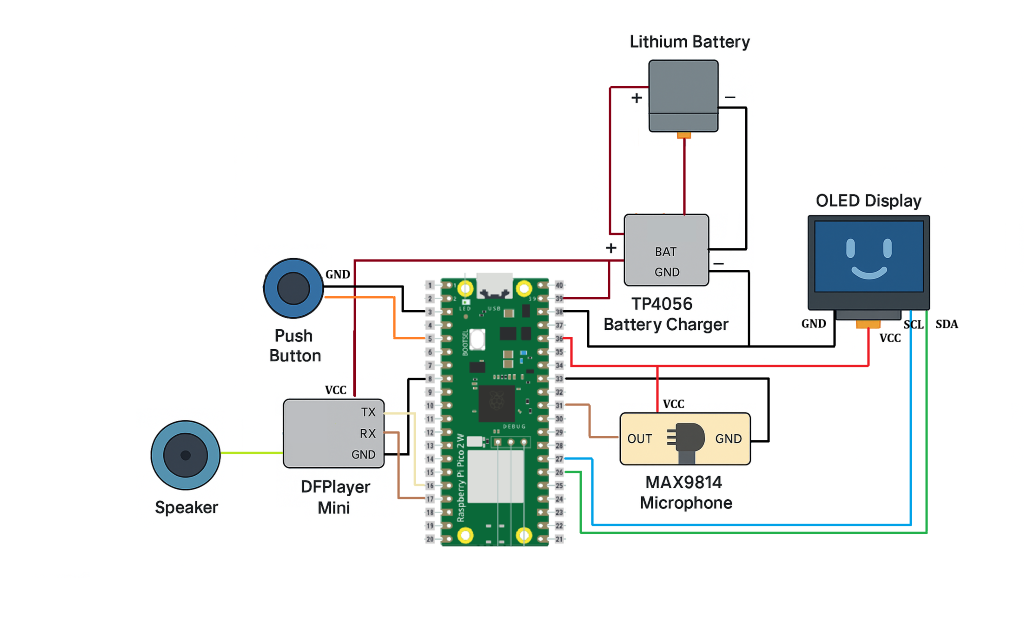
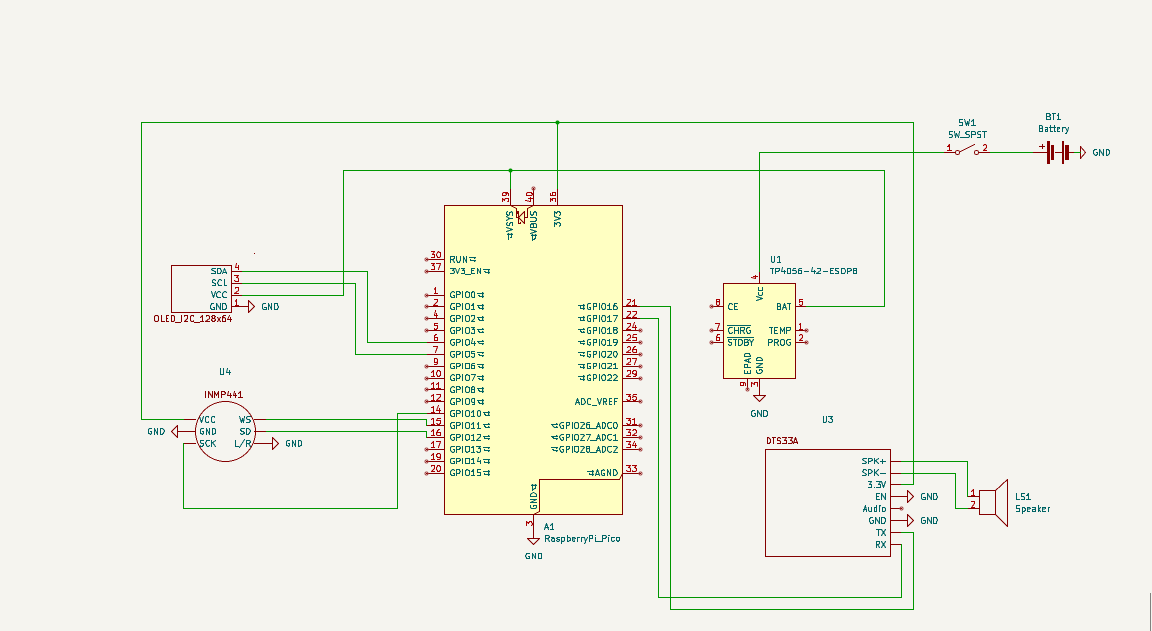
Changed schematic + added description for tts module

Changed region(s): [[0.125, 0.0612, 0.9688, 0.9791]]

diff --git a/website/versioned_docs/version-acs_cc/project/2025/andrei.braniste/index.md b/website/versioned_docs/version-acs_cc/project/2025/andrei.braniste/index.md
@@ -21,7 +21,7 @@ I chose this project because I wanted to build a device that provides emotional 
 - User Interaction: Captures audio input (voice / clap / whistle) via microphone.
 - Processing Core: Raspberry Pi Pico W handles sound detection, AI message requests, and control flow.
 - Cloud Interaction: Sends API requests (e.g., OpenAI) via WiFi when needed.
-- Audio Output: Plays back pre-recorded motivational audio clips via DFPlayer Mini or a TTS UART module.
+- Audio Output: Plays back AI-generated responses through a UART-based TTS module.
 - Visual Output: Displays emotional faces (happy, sad, excited) on the OLED screen based on interaction.
 - Power Supply: A rechargeable Li-ion battery powers the device through a TP4056 charging and protection module, allowing full portability.
 
@@ -54,10 +54,10 @@ This week I received all the components including the TTS module and I've succes
 - Purpose: Captures voice input
 - Function: Currently, the MAX9814 provides analog audio signals read via ADC. In the future, the INMP441 I2S digital microphone may be used if I2S functionality is implemented manually using PIO on the Pico.
 
-### DFPlayer Mini MP3 Module (planned upgrade to TTS module)
+### DTS33A TTS Module
 
 - Purpose: Voice response output
-- Function: Plays motivational audio responses stored on a microSD card. It is currently used for pre-recorded responses, but it may later be replaced by a UART-based TTS module to allow dynamic speech generation from AI output.
+- Function: Converts text to natural-sounding speech in real-time. Connected via UART to the Pico W, it enables dynamic voice responses from AI-generated text without requiring pre-recorded audio files. Supports multiple languages and adjustable speech parameters.
 
 ### 3W Speaker
 
@@ -99,13 +99,12 @@ The format is
 |--------|--------|-------|
 | [Raspberry Pi Pico W (RP2350)](https://www.optimusdigital.ro/ro/placi-raspberry-pi/13327-raspberry-pi-pico-2-w.html?gad_source=1&gad_campaignid=19615979487&gbraid=0AAAAADv-p3AcTGZShwGGGHyKb6hmiamUi&gclid=Cj0KCQjwt8zABhDKARIsAHXuD7bRaFkoivDwDjO8mJROErsIad_UwRPk2iXsDzBulHCu4bi6QBcqg-0aAu0XEALw_wcB) | Main controller with WiFi | ~40 RON |
 | [MAX9814 Microphone Module](https://ardushop.ro/ro/module/601-modul-microfon-senzor-sunet-6427854007254.html?gad_source=1&gad_campaignid=17003133061&gbraid=0AAAAADlKU-6dUy4bFkxt93_6LRYiF24yY&gclid=Cj0KCQjwt8zABhDKARIsAHXuD7bi2AkmYQHCuLjP_W8XvRjMRwqjIHp8yg2ZJOOyiBG5y2f0xSR2J1EaAvOBEALw_wcB) | Voice input via analog signal | ~12 RON |
-| [DFPlayer Mini MP3 Module](https://www.optimusdigital.ro/ro/audio/1484-modul-mp3-player-in-miniatura-dfplayer-mini.html?srsltid=AfmBOope1wW6C27MG3PILZu3SYTrr8hankSmf1RcRVYdJpzdDX5Jr4IT) | Pre-recorded voice response playback | ~14 RON |
 | [Speaker 3W 4Ω 40mm](https://sigmanortec.ro/Speaker-40mm-3W-p134573662?SubmitCurrency=1&id_currency=2&gad_source=1&gad_campaignid=22174019478&gbraid=0AAAAAC3W72OQeyuMV4-b9r8HXwBJWWOfH&gclid=Cj0KCQjwt8zABhDKARIsAHXuD7ahLy71FJfw-ll6iyHTz54D-rAtNsxlZ9egZMBTpF9MC77nPe0JzEkaAqPSEALw_wcB) | Audio output from DFPlayer | ~10 RON |
 | [OLED Display 0.96'' I2C](https://ardushop.ro/ro/display-uri-si-led-uri/1577-display-oled-096-i2c-albastru-jmd096d-1-6427854023469.html?gad_source=1&gad_campaignid=17003133061&gbraid=0AAAAADlKU-6dUy4bFkxt93_6LRYiF24yY&gclid=Cj0KCQjwt8zABhDKARIsAHXuD7ZPsF_3bJQ6rUO03LQC0yYZ7RaE0vP9STmpNRlYhaSvvUHSLFqUq10aAp6OEALw_wcB) | Visual display for AI face and emotions | ~21 RON |
 | [TP4056 Charging Module](https://www.optimusdigital.ro/en/chargers/80-tp4056-1-cell-lipo-charger-micro-usb.html?srsltid=AfmBOood1RMJS56U4bPANxpaVkFXFt8HYHQ3OXuXBJ0Jsw0ji7xknsEr) | Battery charging and protection | ~6 RON |
 | [Samsung 18650 25R 2500mAh Battery](https://www.emag.ro/acumulator-18650-li-ion-samsung-inr-2500mah-3-7v-25r-20a-186502600/pd/D1TJ2VBBM/) | Power source | ~26 RON |
 | [Push Button](https://www.optimusdigital.ro/en/buttons-and-switches/1119-6x6x6-push-button.html?search_query=button&results=491) | Triggers interaction or startup | ~1–2 RON |
-| [MicroSD Card (8–16 GB)](https://www.emag.ro/card-de-memorie-microsd-kingston-canvas-select-plus-128gb-100mb-s-cu-adaptor-sdcs2-128gb/pd/D799R8BBM/) | Stores MP3 files for DFPlayer | ~40 RON |
+| [DTS33A TTS Module](https://www.dfrobot.com/product-2337.html) | Text-to-Speech synthesis | ~30 RON |
 | Breadboard + jumpers | Wiring and prototyping | ~40 RON |
 
 
